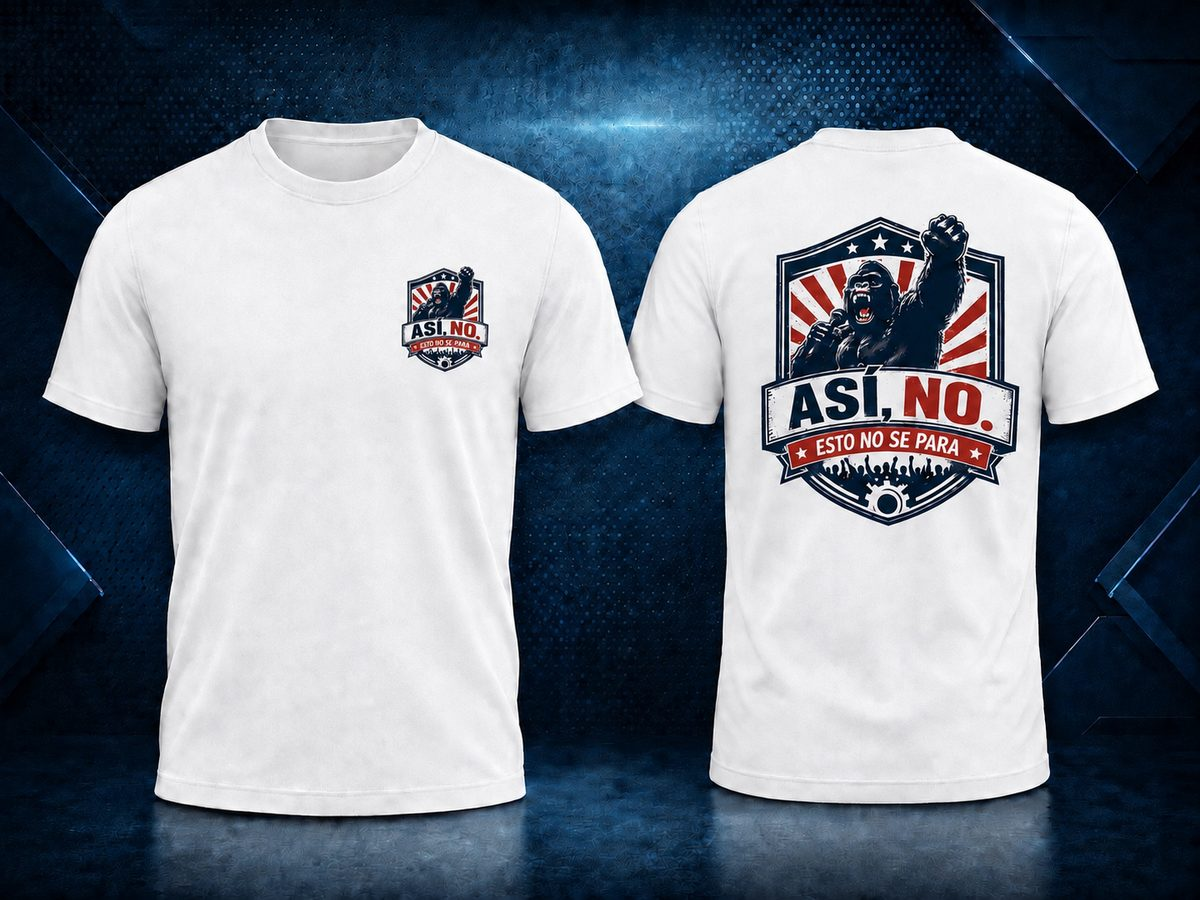
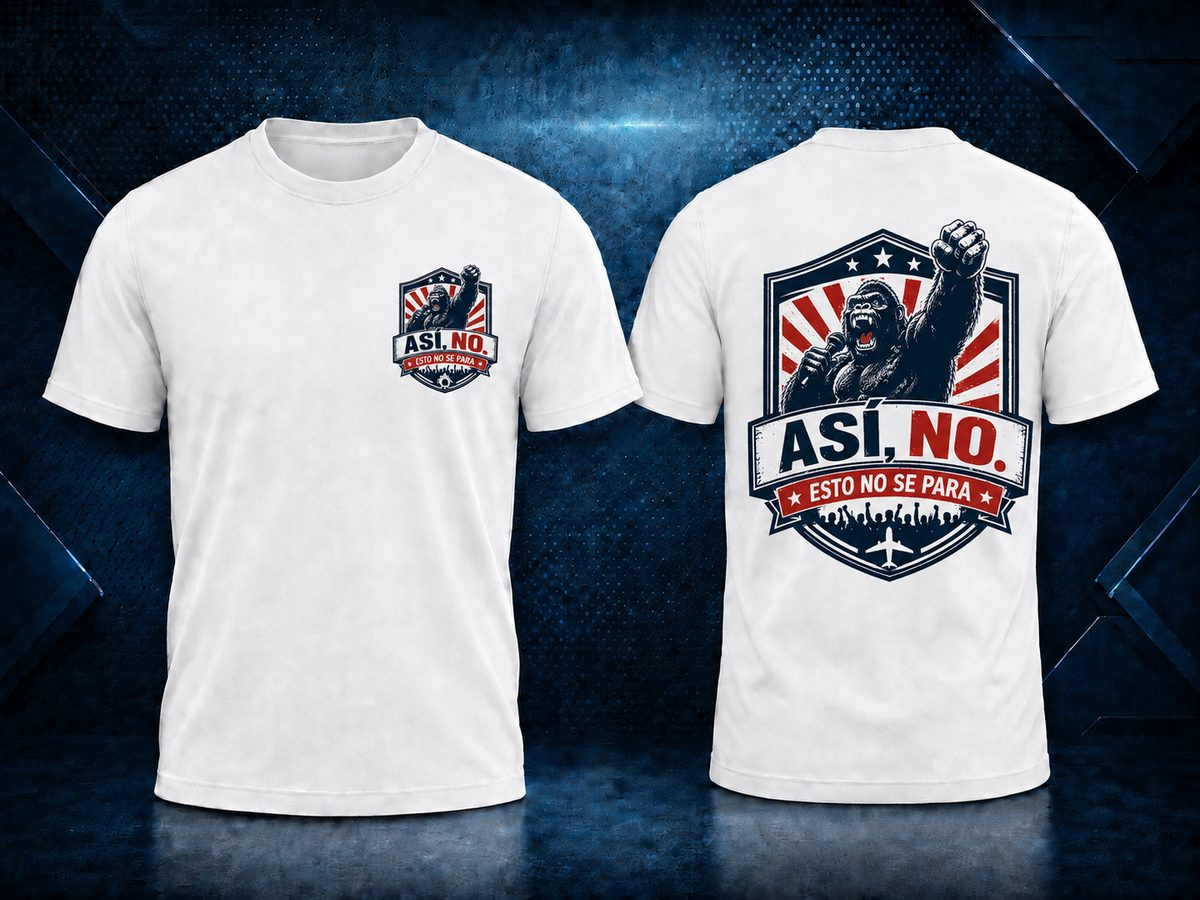
Reencuadre a "plataforma solidaria / aportación" (no venta) + marca y camiseta nuevas
Marco de donación (validar wording final con el equipo jurídico):
- "Tienda" → "Plataforma solidaria"; "pedido/compra/precio" → "aportación";
  la camiseta se presenta como agradecimiento por colaborar.
- Web (index/styles) y emails (Code.gs) alineados con ese lenguaje.
- Pie de web y de email con nota de aportación a la Caja (Sindicato Útil).

Cambios visuales:
- Nuevo diseño de camiseta "Esto no se para" (con avión) en producto.
- Logo/favicon del emblema nuevo, recortado limpio (sin ruido de tela).
- Guía de tallas: eliminada la tabla HTML duplicada; una sola imagen nueva
  + disclaimer (100% algodón, puede encoger tras el primer lavado).

diff --git a/index.html b/index.html
@@ -4,9 +4,9 @@
   <meta charset="utf-8">
   <meta name="viewport" content="width=device-width,initial-scale=1,viewport-fit=cover">
   <meta name="theme-color" content="#16233b">
-  <meta name="description" content="Tienda · Caja de Resistencia — Huelga Airbus 2026. Camisetas cuyo importe sostiene la caja de resistencia.">
+  <meta name="description" content="Plataforma solidaria de la Caja de Resistencia — Huelga Airbus 2026. Colabora con una aportación y recibe una camiseta de agradecimiento.">
   <meta name="robots" content="noindex,nofollow">
-  <title>Tienda · Caja de Resistencia · Huelga Airbus 2026</title>
+  <title>Plataforma Solidaria · Caja de Resistencia · Huelga Airbus 2026</title>
   <link rel="icon" type="image/png" href="./assets/favicon.png">
   <link rel="apple-touch-icon" href="./assets/favicon.png">
   <link rel="preconnect" href="https://fonts.googleapis.com">
@@ -15,18 +15,18 @@
   <link rel="stylesheet" href="./styles.css">
 </head>
 <body>
-  <a class="skip-link" href="#pedido">Ir directamente al pedido</a>
+  <a class="skip-link" href="#pedido">Ir directamente a tu aportación</a>
 
   <div class="topbar">
-    <div class="wrap"><span class="dot" aria-hidden="true"></span>Huelga Airbus 2026 · Getafe · La camiseta que sostiene la caja de resistencia</div>
+    <div class="wrap"><span class="dot" aria-hidden="true"></span>Huelga Airbus 2026 · Getafe · Colabora con la caja de resistencia</div>
   </div>
 
   <header class="site-header">
     <div class="wrap header-inner">
-      <div class="mark"><img src="./assets/logo.png" alt="Así, no · Asamblea de trabajadores"></div>
+      <div class="mark"><img src="./assets/logo.png" alt="Así, no · Esto no se para"></div>
       <div>
         <div class="eyebrow">GETAFE · HUELGA AIRBUS 2026</div>
-        <div class="brand">TIENDA · CAJA DE RESISTENCIA</div>
+        <div class="brand">PLATAFORMA SOLIDARIA · CAJA DE RESISTENCIA</div>
       </div>
     </div>
   </header>
@@ -35,10 +35,10 @@
     <section class="hero wrap">
       <p class="eyebrow orange">CAJA DE RESISTENCIA</p>
       <h1>Una camiseta.<br><span>Dos destinos.</span></h1>
-      <p class="lead">Haz tu pedido, realiza una transferencia con tu código <strong>AIR26-XXXXX</strong> y te avisaremos cuando esté listo para recoger en Getafe.</p>
+      <p class="lead">Haz tu aportación, realiza una transferencia con tu código <strong>AIR26-XXXXX</strong> y te avisaremos cuando tu camiseta esté lista para recoger en Getafe.</p>
       <div class="hero-actions">
         <a class="btn btn-primary" href="#producto">VER CAMISETA</a>
-        <a class="btn btn-ghost" href="#pedido">HACER PEDIDO</a>
+        <a class="btn btn-ghost" href="#pedido">COLABORAR</a>
       </div>
     </section>
 
@@ -46,17 +46,17 @@
 
     <section id="producto" class="section wrap product-section">
       <div class="product-media card-dark">
-        <img src="./assets/camiseta-solidaria.jpg" alt="Camiseta solidaria, vista delantera y trasera" loading="eager">
+        <img src="./assets/camiseta-solidaria.jpg" alt="Camiseta «Así, no · Esto no se para», vista delantera y trasera" loading="eager">
       </div>
       <div class="product-info">
-        <p class="eyebrow orange">PRODUCTO 01</p>
-        <h2>Camiseta solidaria</h2>
-        <p class="muted">Modelo unisex · blanco · tallas XS a 5XL</p>
+        <p class="eyebrow orange">APORTACIÓN SOLIDARIA</p>
+        <h2>Camiseta de agradecimiento</h2>
+        <p class="muted">Modelo unisex · blanco · tallas XS a 5XL · 100% algodón</p>
         <div class="price-block">
           <div class="price">10 €</div>
-          <div class="price-split"><span>5 € coste de fabricación</span><strong>5 € directos a la Caja de Resistencia</strong></div>
+          <div class="price-split"><span>5 € para la camiseta</span><strong>5 € directos a la Caja de Resistencia</strong></div>
         </div>
-        <p class="small">Puedes pedir hasta 20 unidades en un mismo pedido y combinar varias tallas.</p>
+        <p class="small">Con tu aportación colaboras con la caja y, como agradecimiento, recibes la camiseta. Puedes aportar por varias y combinar tallas (hasta 20).</p>
       </div>
     </section>
 
@@ -66,44 +66,31 @@
       <p class="eyebrow orange">PROCESO</p>
       <h2>Cómo funciona</h2>
       <ol class="steps">
-        <li><span>1</span><div><strong>Elige talla y cantidad.</strong><p>Puedes combinar varias tallas dentro del mismo pedido.</p></div></li>
-        <li><span>2</span><div><strong>Introduce tus datos y envía el pedido.</strong><p>El sistema generará tu código único AIR26-XXXXX.</p></div></li>
+        <li><span>1</span><div><strong>Elige talla y cantidad.</strong><p>Puedes combinar varias tallas en la misma aportación.</p></div></li>
+        <li><span>2</span><div><strong>Introduce tus datos y envía tu aportación.</strong><p>El sistema generará tu código único AIR26-XXXXX.</p></div></li>
         <li><span>3</span><div><strong>Haz la transferencia.</strong><p>Usa exactamente tu código AIR26-XXXXX como concepto. No hace falta enviar justificante.</p></div></li>
-        <li><span>4</span><div><strong>Confirmamos el pago (una vez al día).</strong><p>Revisamos las transferencias una vez al día, así que la confirmación puede tardar hasta 24 h. Recibirás un email en cuanto quede confirmada.</p></div></li>
-        <li><span>5</span><div><strong>Recoge tu pedido.</strong><p>Te avisaremos por email cuando esté disponible en Getafe.</p></div></li>
+        <li><span>4</span><div><strong>Confirmamos tu aportación (una vez al día).</strong><p>Revisamos las transferencias una vez al día, así que la confirmación puede tardar hasta 24 h. Recibirás un email en cuanto quede confirmada.</p></div></li>
+        <li><span>5</span><div><strong>Recoge tu camiseta.</strong><p>Te avisaremos por email cuando esté disponible en Getafe.</p></div></li>
       </ol>
     </section>
 
     <div class="hazard" aria-hidden="true"></div>
 
     <section class="section wrap size-section">
-      <div>
-        <p class="eyebrow orange">GUÍA DE TALLAS · UNISEX</p>
-        <h2>Acertar con la talla es fácil</h2>
-        <p class="muted">Coloca una camiseta que te quede bien sobre una superficie plana. Mide de axila a axila para el ancho y desde el hombro hasta el borde inferior para el alto.</p>
-        <div class="size-table-wrap" aria-label="Tabla de tallas">
-          <table class="size-table">
-            <thead><tr><th>Talla</th><th>Ancho</th><th>Alto</th></tr></thead>
-            <tbody>
-              <tr><td>XS</td><td>46 cm</td><td>66 cm</td></tr><tr><td>S</td><td>49 cm</td><td>69 cm</td></tr>
-              <tr><td>M</td><td>52 cm</td><td>71 cm</td></tr><tr><td>L</td><td>55 cm</td><td>73 cm</td></tr>
-              <tr><td>XL</td><td>58 cm</td><td>75 cm</td></tr><tr><td>2XL</td><td>62 cm</td><td>77 cm</td></tr>
-              <tr><td>3XL</td><td>66 cm</td><td>79 cm</td></tr><tr><td>4XL</td><td>70 cm</td><td>81 cm</td></tr>
-              <tr><td>5XL</td><td>74 cm</td><td>83 cm</td></tr>
-            </tbody>
-          </table>
-        </div>
-      </div>
-      <figure class="size-image card-light">
-        <img src="./assets/guia-tallas.jpg" alt="Esquema visual para medir ancho y alto de la camiseta y tabla de tallas" loading="lazy">
+      <p class="eyebrow orange">GUÍA DE TALLAS · UNISEX</p>
+      <h2>Acertar con la talla es fácil</h2>
+      <p class="muted">Coloca una camiseta que te quede bien sobre una superficie plana. Mide de axila a axila para el ancho y desde el hombro hasta el borde inferior para el alto.</p>
+      <figure class="size-image">
+        <img src="./assets/guia-tallas.jpg" alt="Guía de tallas: cómo medir ancho y alto, y tabla de tallas de XS a 5XL en centímetros" loading="lazy">
       </figure>
+      <p class="size-note">Las camisetas son <strong>100% algodón</strong>: es posible que encojan ligeramente tras el primer lavado. Si dudas entre dos tallas, elige la mayor.</p>
     </section>
 
     <div class="hazard" aria-hidden="true"></div>
 
     <section id="pedido" class="section wrap order-section">
-      <p class="eyebrow orange">FORMULARIO DE PEDIDO</p>
-      <h2>Prepara tu pedido</h2>
+      <p class="eyebrow orange">TU APORTACIÓN</p>
+      <h2>Prepara tu aportación</h2>
       <p class="muted">Selecciona una talla, elige cantidad y añádela. Puedes repetir el proceso con otras tallas.</p>
 
       <div class="order-grid">
@@ -122,14 +109,14 @@
                 <button type="button" id="plusQty" aria-label="Añadir una unidad">+</button>
               </div>
             </div>
-            <button type="button" id="addToCart" class="btn btn-primary add-btn">AÑADIR AL PEDIDO</button>
+            <button type="button" id="addToCart" class="btn btn-primary add-btn">AÑADIR</button>
           </div>
           <p id="catalogStatus" class="micro" role="status"></p>
         </div>
 
         <aside class="cart panel" aria-labelledby="cartTitle">
-          <div class="cart-head"><h3 id="cartTitle">Tu pedido</h3><span id="unitCount" class="badge">0 uds.</span></div>
-          <div id="cartEmpty" class="cart-empty">Todavía no has añadido productos.</div>
+          <div class="cart-head"><h3 id="cartTitle">Tu aportación</h3><span id="unitCount" class="badge">0 uds.</span></div>
+          <div id="cartEmpty" class="cart-empty">Todavía no has añadido camisetas.</div>
           <div id="cartLines" class="cart-lines"></div>
           <div class="donation">
             <div class="donation-title">Aportación adicional a la Caja</div>
@@ -142,9 +129,9 @@
             </div>
           </div>
           <div class="totals">
-            <div><span>Productos</span><strong id="productsTotal">0,00 €</strong></div>
-            <div><span>Aportación</span><strong id="donationTotal">0,00 €</strong></div>
-            <div class="grand"><span>TOTAL</span><strong id="grandTotal">0,00 €</strong></div>
+            <div><span>Camisetas</span><strong id="productsTotal">0,00 €</strong></div>
+            <div><span>Aportación extra</span><strong id="donationTotal">0,00 €</strong></div>
+            <div class="grand"><span>TOTAL A APORTAR</span><strong id="grandTotal">0,00 €</strong></div>
           </div>
         </aside>
       </div>
@@ -171,20 +158,20 @@
 
         <div class="panel privacy-panel">
           <div class="section-label"><span>03</span> Privacidad</div>
-          <label class="check-row"><input type="checkbox" name="privacy" required><span>He leído la información básica y acepto que mis datos se utilicen para gestionar el pedido, confirmar el pago y coordinar la recogida.</span></label>
+          <label class="check-row"><input type="checkbox" name="privacy" required><span>He leído la información básica y acepto que mis datos se utilicen para gestionar mi aportación, confirmar la transferencia y coordinar la recogida.</span></label>
           <p class="micro">No pedimos DNI ni número de empleado. Contacto: <a id="contactEmail" href="mailto:enfadadosconairbus.tienda@gmail.com">enfadadosconairbus.tienda@gmail.com</a>.</p>
         </div>
 
         <div id="formError" class="form-error" role="alert" hidden></div>
-        <button id="submitOrder" class="btn btn-submit" type="submit">REALIZAR PEDIDO</button>
+        <button id="submitOrder" class="btn btn-submit" type="submit">HACER MI APORTACIÓN</button>
       </form>
     </section>
 
     <section id="success" class="success-section" hidden aria-live="polite">
       <div class="wrap success-inner">
-        <p class="eyebrow orange">PEDIDO REGISTRADO</p>
-        <h2>Pedido realizado</h2>
-        <div class="order-code-label">CÓDIGO DE PEDIDO</div>
+        <p class="eyebrow orange">APORTACIÓN REGISTRADA</p>
+        <h2>¡Gracias por colaborar!</h2>
+        <div class="order-code-label">CÓDIGO DE APORTACIÓN</div>
         <div id="successOrderId" class="order-code">AIR26-00000</div>
         <p>También recibirás esta información por email.</p>
         <div class="bank-card">
@@ -193,18 +180,18 @@
           <div><span>Importe exacto</span><strong id="successTotal" class="big-money"></strong></div>
           <div class="concept"><span>CONCEPTO OBLIGATORIO</span><strong id="successConcept" class="mono"></strong><button type="button" class="copy-btn inverse" data-copy="successConcept">COPIAR</button></div>
         </div>
-        <div class="notice ok"><strong>No hace falta enviar justificante.</strong> Confirmaremos el pago mediante los movimientos reales de la cuenta.</div>
+        <div class="notice ok"><strong>No hace falta enviar justificante.</strong> Confirmaremos tu aportación mediante los movimientos reales de la cuenta.</div>
       </div>
     </section>
   </main>
 
   <div id="stickyCart" class="sticky-cart" hidden>
     <div><span id="stickyUnits">0 uds.</span><strong id="stickyTotal">0,00 €</strong></div>
-    <button type="button" id="stickyGo">VER PEDIDO</button>
+    <button type="button" id="stickyGo">VER APORTACIÓN</button>
   </div>
 
   <footer class="site-footer">
-    <div class="wrap"><strong>TIENDA · CAJA DE RESISTENCIA · HUELGA AIRBUS 2026</strong><p>Página no oficial de Airbus. Esta página no procesa pagos: el pago se realiza mediante transferencia bancaria.</p></div>
+    <div class="wrap"><strong>PLATAFORMA SOLIDARIA · CAJA DE RESISTENCIA · HUELGA AIRBUS 2026</strong><p>Aportación solidaria a la Caja de Resistencia (Sindicato Útil); la camiseta es un agradecimiento por tu colaboración. Página no oficial de Airbus. No se procesan pagos: la aportación se realiza por transferencia bancaria.</p></div>
   </footer>
 
   <script src="./config.js"></script>

diff --git a/styles.css b/styles.css
@@ -109,7 +109,9 @@ h3 { font-size: 1.15rem; font-weight: 700; }
 .steps li p { margin: 4px 0 0; color: var(--muted); font-size: .92rem; }
 
 /* ---- tallas ---- */
-.size-section { display: grid; gap: 30px; align-items: start; }
+.size-image { max-width: 640px; margin: 22px auto 4px; border-radius: var(--radius); overflow: hidden; border: 1px solid var(--line); }
+.size-note { max-width: 640px; margin: 10px auto 0; text-align: center; color: var(--muted); font-size: .92rem; }
+.size-note strong { color: var(--ink); }
 .size-table-wrap { overflow-x: auto; margin-top: 16px; border: 1px solid var(--line); border-radius: var(--radius); }
 .size-table { width: 100%; border-collapse: collapse; min-width: 320px; background: var(--paper-2); }
 .size-table th, .size-table td { padding: 12px 16px; text-align: left; border-bottom: 1px solid var(--line); }
@@ -221,7 +223,6 @@ h3 { font-size: 1.15rem; font-weight: 700; }
 /* ---- responsive ---- */
 @media (min-width: 720px) {
   .product-section { grid-template-columns: 1fr 1fr; }
-  .size-section { grid-template-columns: 1.15fr .85fr; }
   .order-grid { grid-template-columns: 1fr 1fr; }
   .fields-grid { grid-template-columns: 1fr 1fr; }
   .sticky-cart { display: none; }
